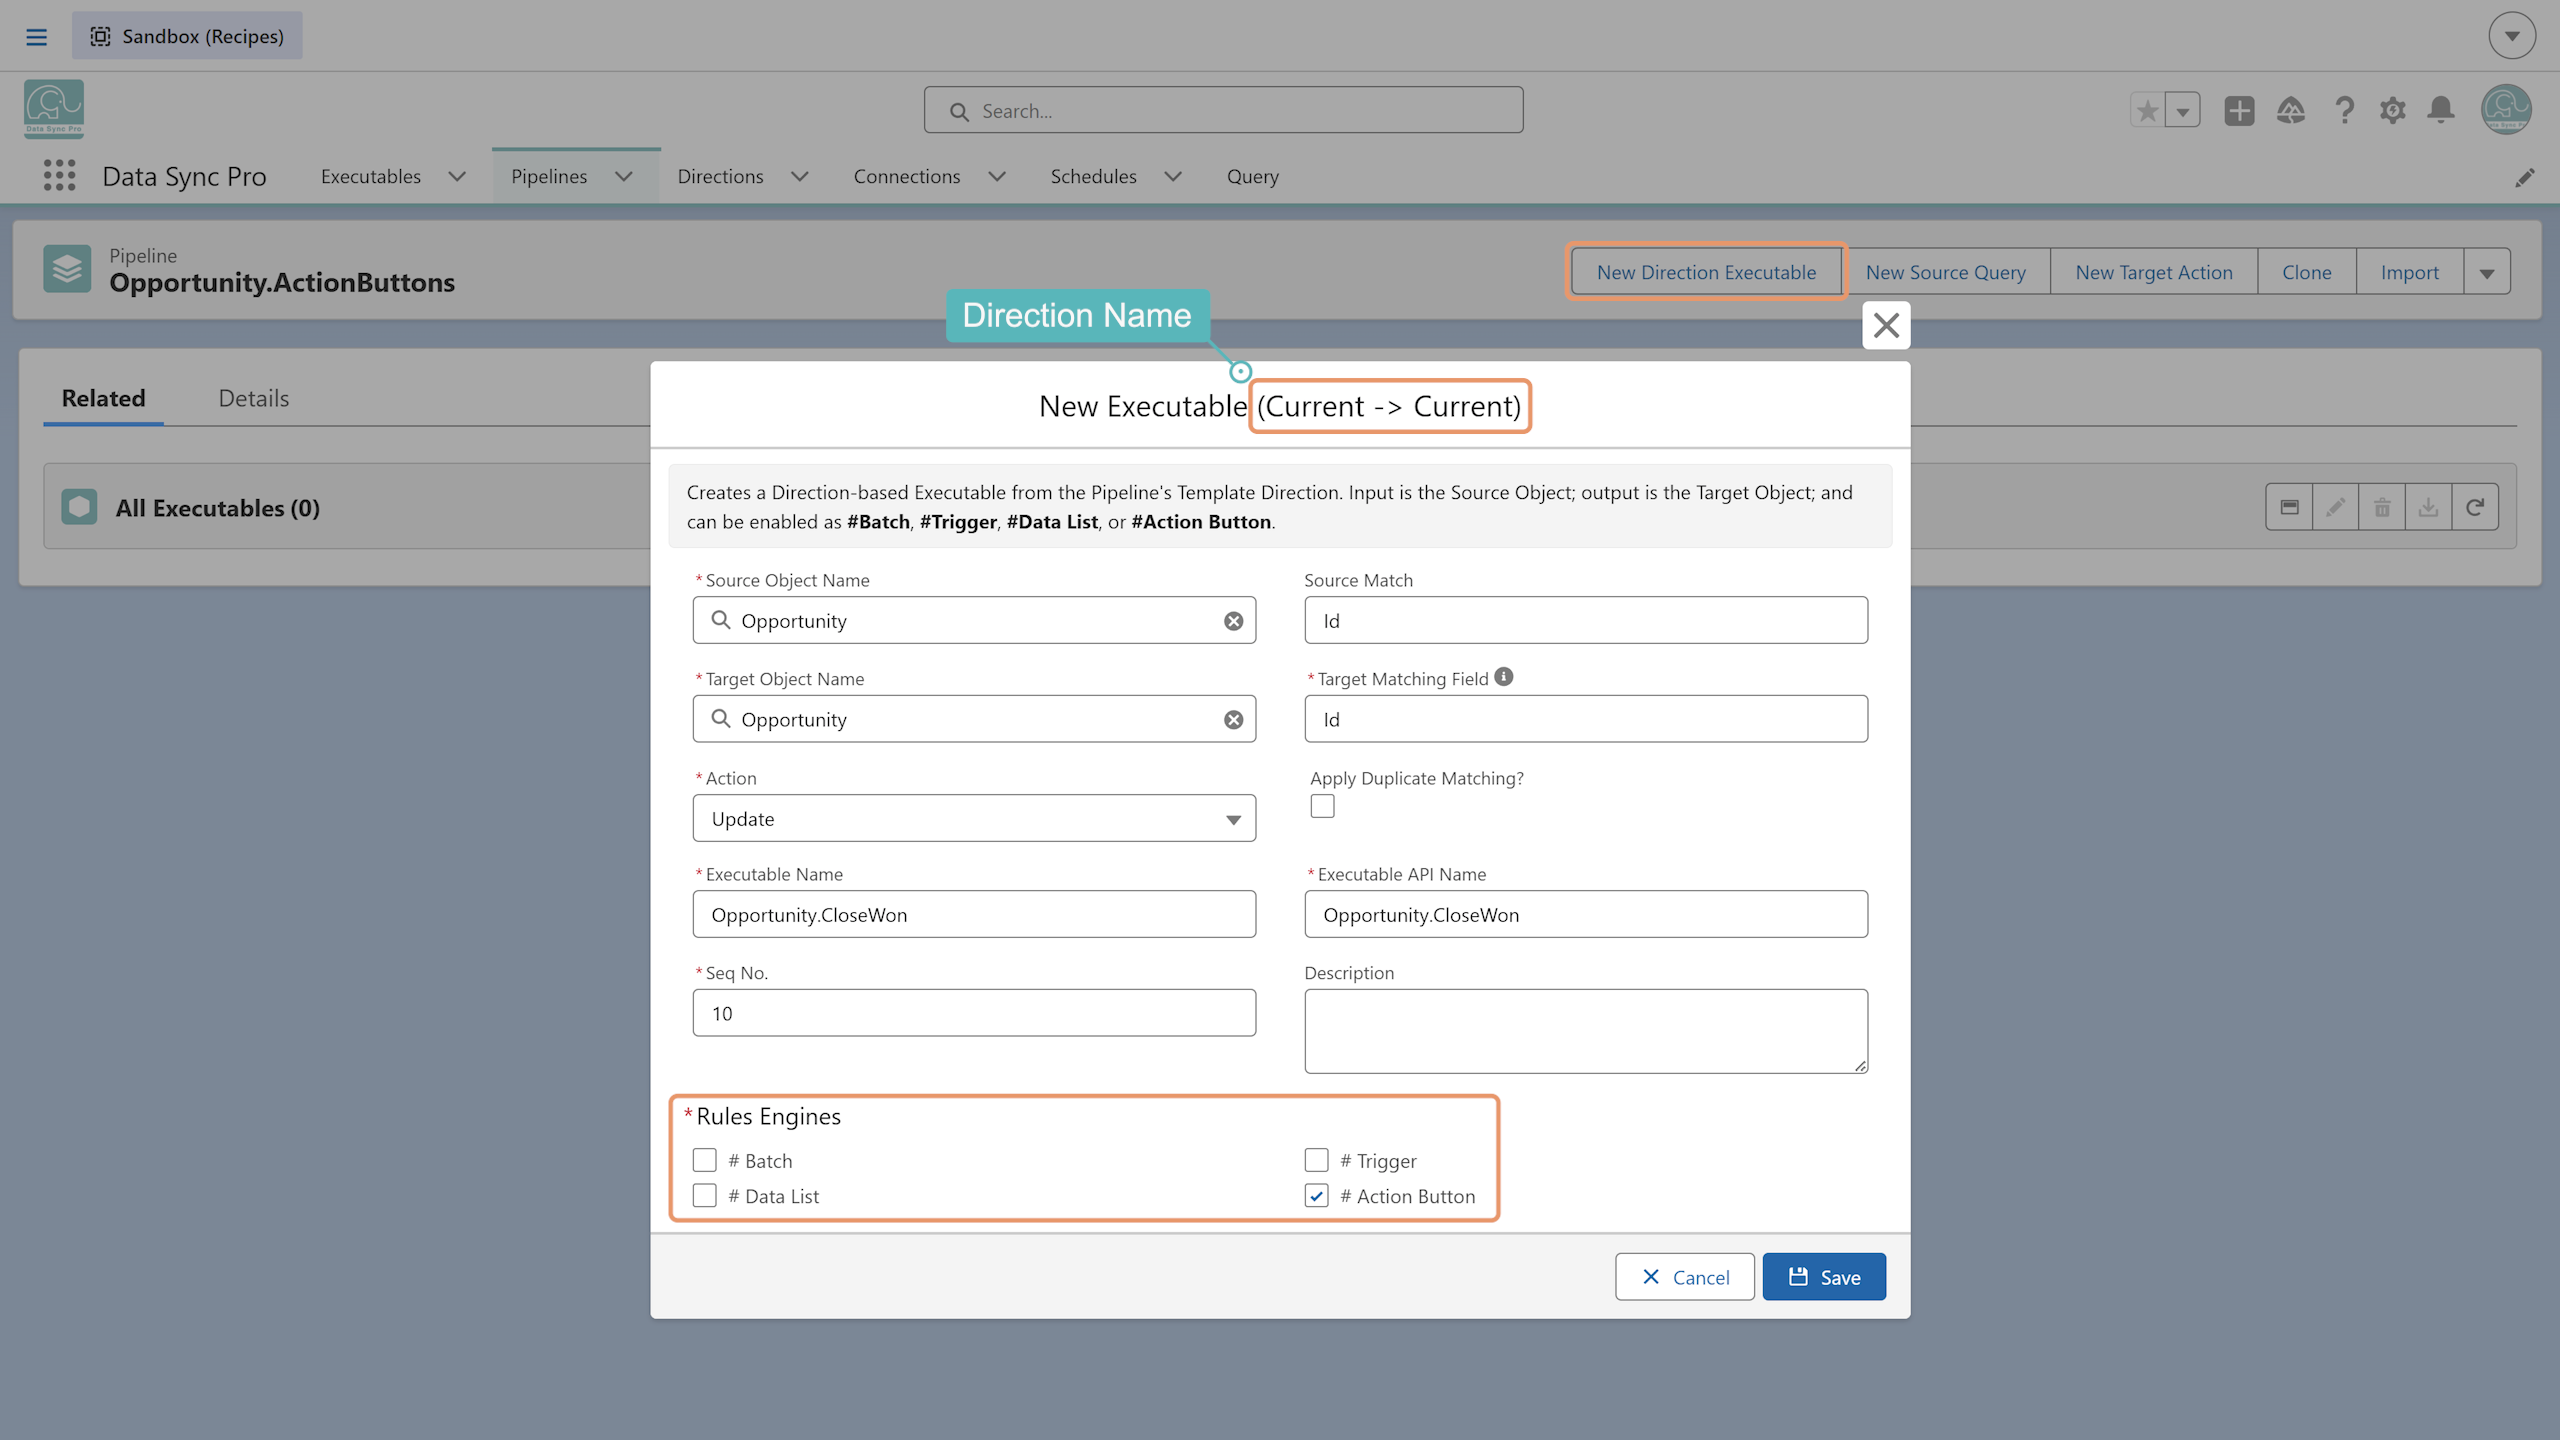
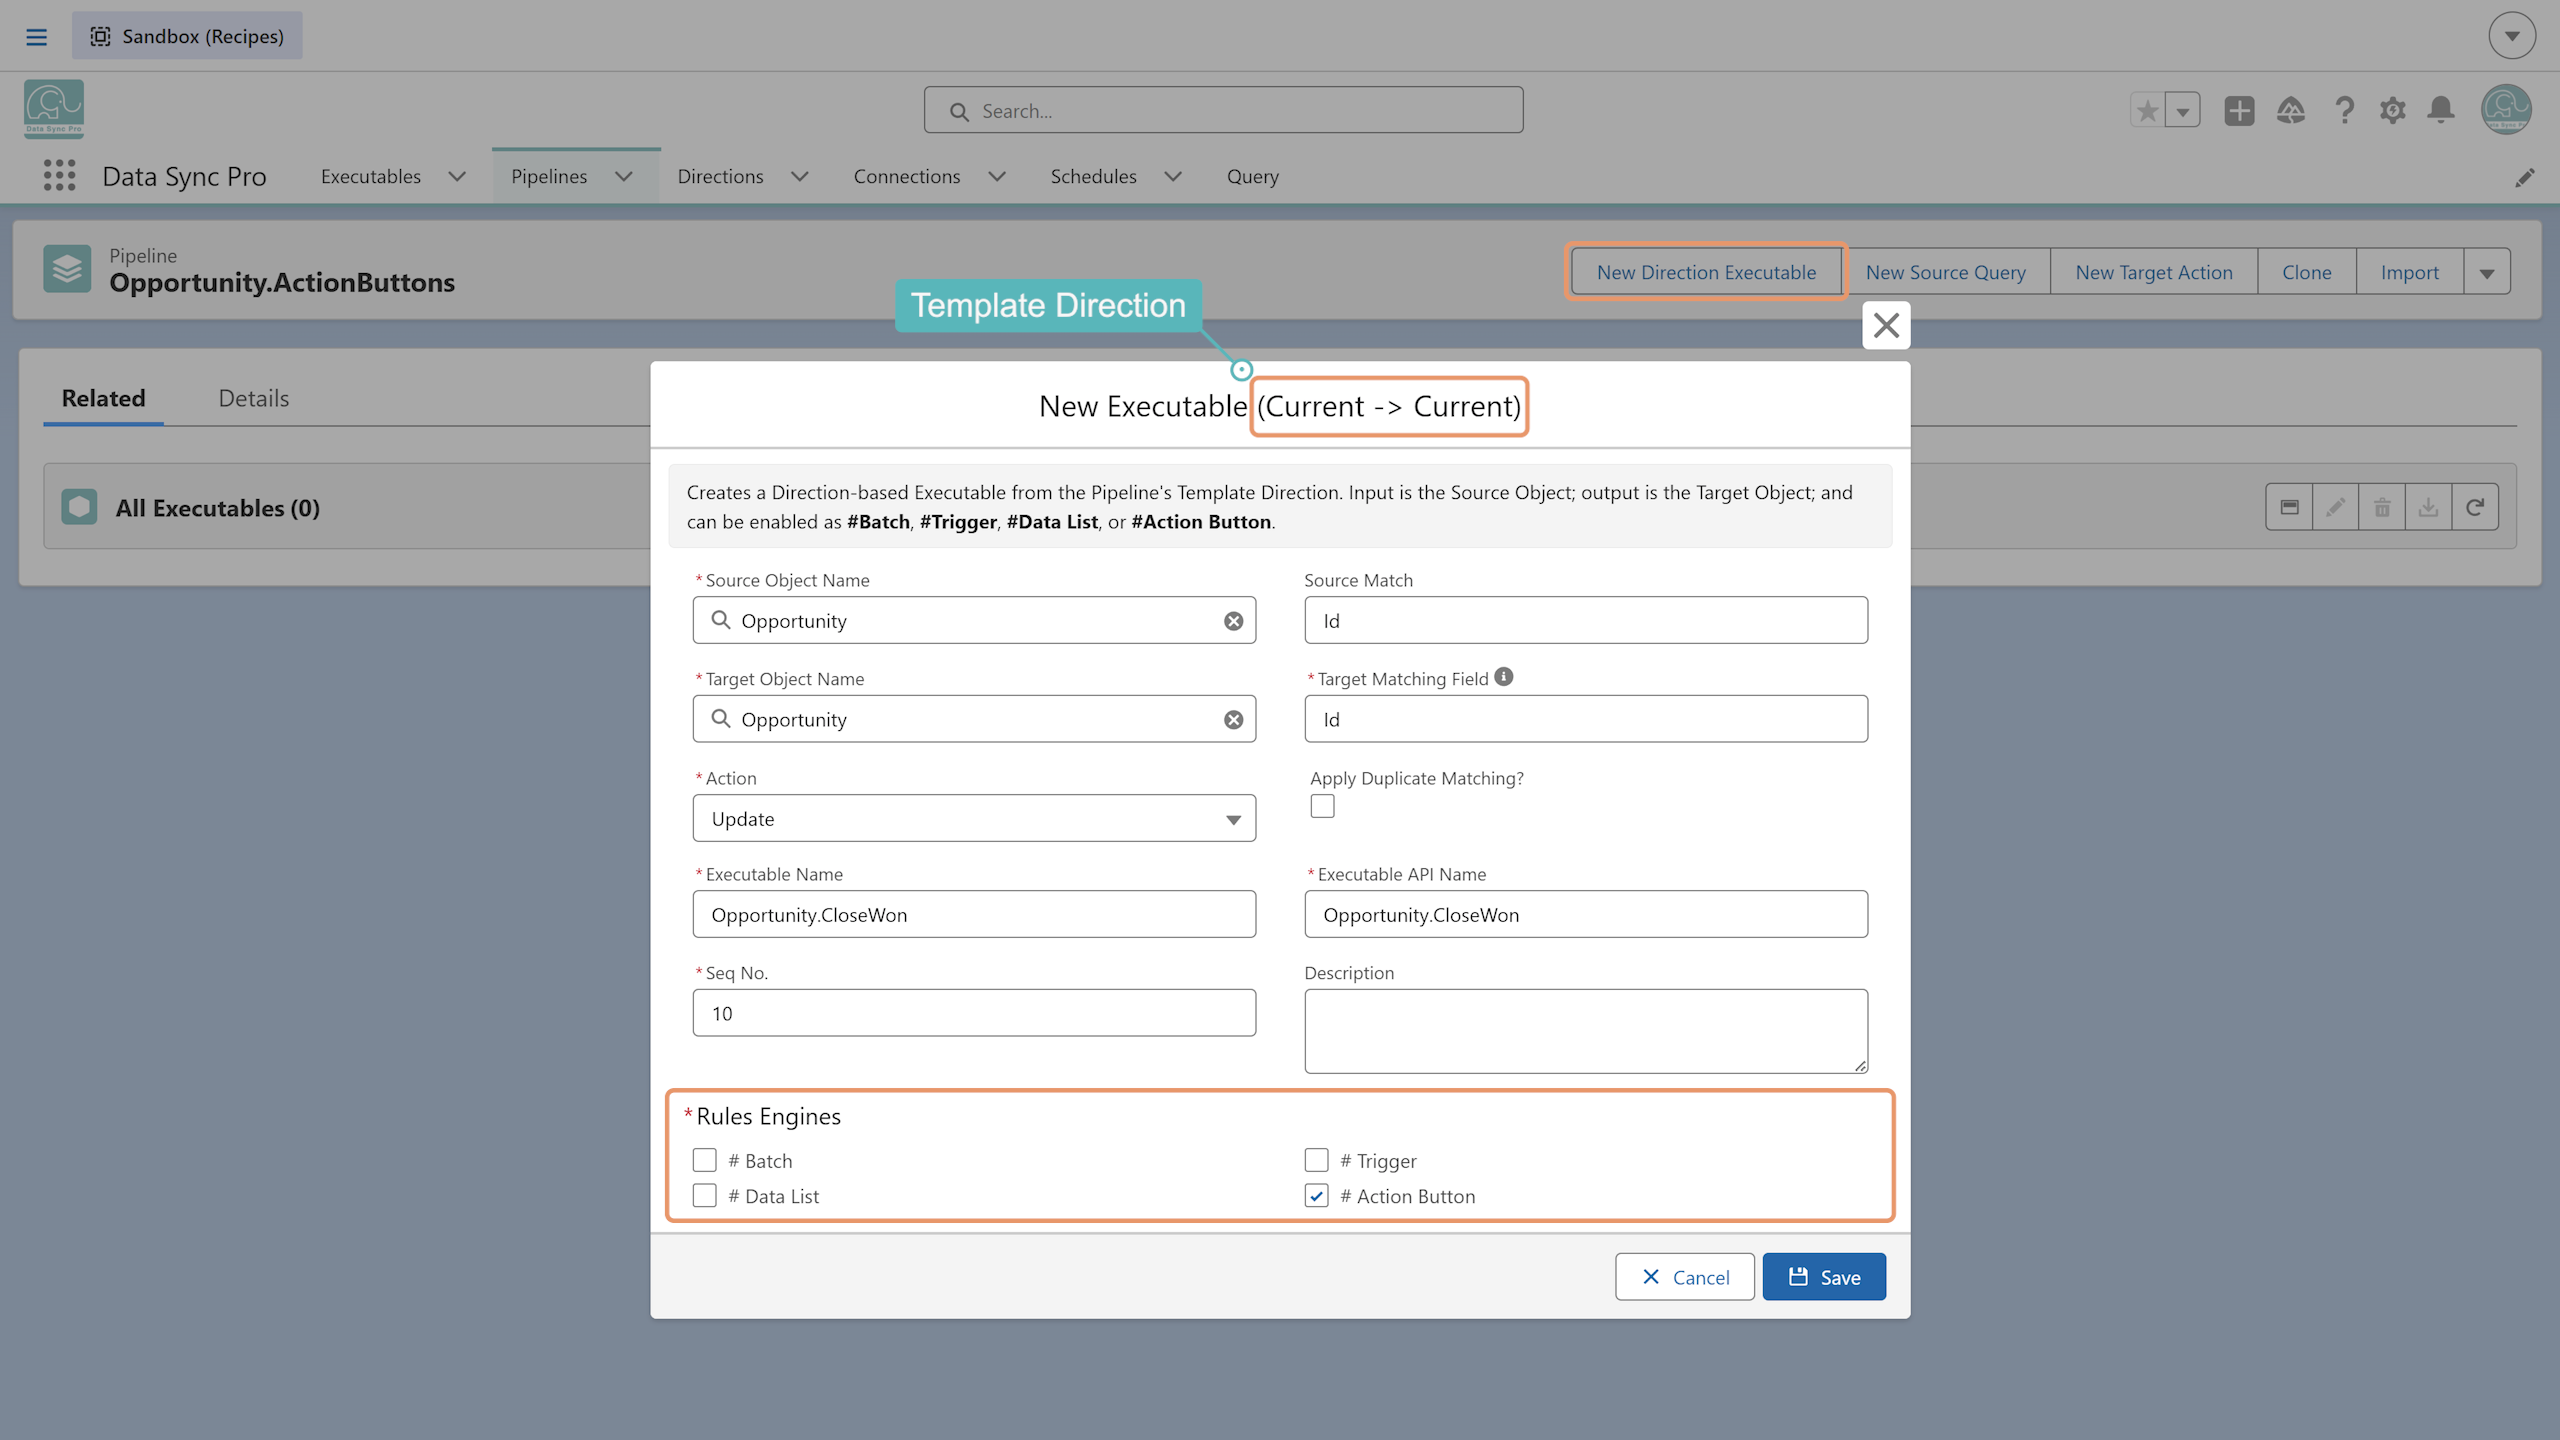
setup: enhance link functionality and descriptions in setup components

diff --git a/src/app/setup/block/block.component.ts b/src/app/setup/block/block.component.ts
@@ -43,11 +43,12 @@ export class SetupBlockComponent implements OnInit, AfterViewChecked {
 
   // Inline link syntax:
   //   [[slug]] / [[slug|Label]]   → internal setup link (same tab, SPA routing)
+  //   [[slug]]^ / [[slug|Label]]^ → internal setup link opened in a new tab
   //   [Label](url)                → external link (new tab); use for recipes/web URLs
   // Unresolved [[slug]] renders as a visible broken-link span so authors notice.
   renderContent(content: string | undefined): string {
     if (!content) return '';
-    let result = content.replace(/\[\[([^|\]]+?)(?:\|([^\]]+?))?\]\]/g, (_match, slug: string, label?: string) => {
+    let result = content.replace(/\[\[([^|\]]+?)(?:\|([^\]]+?))?\]\](\^)?/g, (_match, slug: string, label: string | undefined, newTab: string | undefined) => {
       const tree = this.setupService.getCachedNavTree();
       const node = this.setupService.findNodeBySlug(tree, slug.trim());
       const text = (label ?? node?.label ?? slug).trim();
@@ -56,7 +57,8 @@ export class SetupBlockComponent implements OnInit, AfterViewChecked {
       }
       const path = node.slug ? this.setupService.getPathToNode(tree, node.slug) : null;
       const href = path ? '/setup/' + path.map(n => n.slug).filter((s): s is string => !!s).join('/') : '#';
-      return `<a class="setup-link" href="${href}" data-slug="${node.slug ?? ''}">${text}</a>`;
+      const targetAttrs = newTab ? ' target="_blank" rel="noopener noreferrer"' : '';
+      return `<a class="setup-link" href="${href}" data-slug="${node.slug ?? ''}"${targetAttrs}>${text}</a>`;
     });
     result = result.replace(/\[([^\]]+?)\]\(([^)]+?)\)/g, (_match, label: string, url: string) => {
       return `<a class="setup-link-external" href="${url}" target="_blank" rel="noopener noreferrer">${label}</a>`;
@@ -72,6 +74,7 @@ export class SetupBlockComponent implements OnInit, AfterViewChecked {
     }
     const target = (event.target as HTMLElement | null)?.closest('a.setup-link') as HTMLAnchorElement | null;
     if (!target) return;
+    if (target.target === '_blank') return;
     const slug = target.dataset['slug'];
     if (!slug) return;
     const tree = this.setupService.getCachedNavTree();